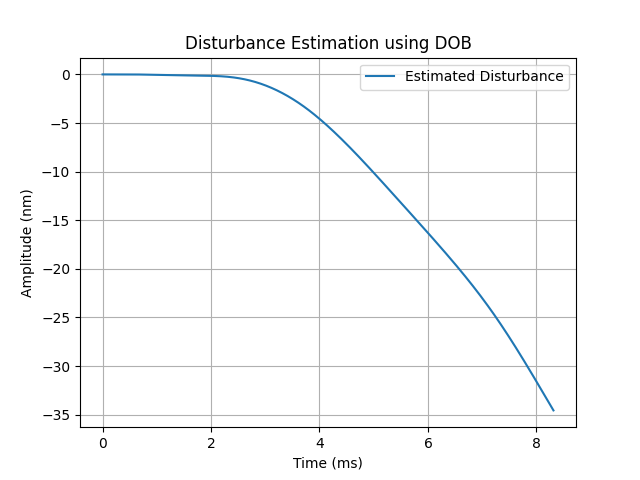
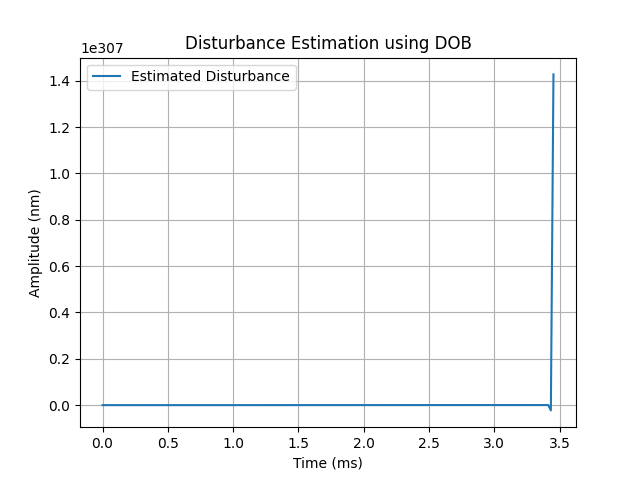
update

diff --git a/DOB_of_VCM.py b/DOB_of_VCM.py
@@ -85,7 +85,6 @@ print("Ts*420*1e3:", Ts*420*1e3)
 
 print("Discrete-time Plant:", Sys_Pd_vcm)
 P_nom = Sys_Pd_vcm
-cutoff_freq = 5
 w = 2 * np.pi * cutoff_freq
 low_pass_filter = signal.TransferFunction([w], [1, w])
 low_pass_filter_disc = signal.cont2discrete(([w], [1, w]), Ts, method='zoh')
@@ -98,9 +97,42 @@ den_disc = low_pass_filter_disc[1].flatten()
 # Create a control.TransferFunction for the discrete-time system
 low_pass_filter_tf = co.TransferFunction(num_disc, den_disc, Ts)
 print("Discrete-time Low-pass Filter for DOB:", low_pass_filter_tf)
+
+
+#P_nom_tf = co.ss2tf(P_nom)
+
+# Access the numerator and denominator from the transfer function
+#numerator = P_nom_tf.num[0][0]  # Extract the first (and usually only) element
+#denominator = P_nom_tf.den[0][0]
+#P_nom_inv = co.TransferFunction(denominator, numerator, Ts)  # 求名义模型的逆
+#print("Inverse of Nominal Model:", P_nom_inv)
+
+
+def get_regularized_inverse(P_nom, cutoff_freq):
+    # Convert the nominal plant to transfer function if it's not already
+    P_nom_tf = co.ss2tf(P_nom)
+
+    # Extract numerator and denominator
+    numerator = P_nom_tf.num[0][0]
+    denominator = P_nom_tf.den[0][0]
+
+    # Inverse of P_nom is simply flipping num and den
+    P_nom_inv = co.TransferFunction(denominator, numerator, Ts)
+
+    # Create low-pass filter to stabilize the inverse
+    w = 2 * np.pi * cutoff_freq
+    low_pass_filter = co.TransferFunction([w], [1, w], Ts)
+
+    # Multiply the inverse by the low-pass filter to regularize it
+    P_nom_inv_regularized = P_nom_inv * low_pass_filter
+
+    return P_nom_inv_regularized
+
+
+
 # Disturbance observer design
 
-def disturbance_observer(u, y, P_nom, low_pass_filter_tf):
+def disturbance_observer(u, y, P_nom, P_nom_inv, low_pass_filter_tf):
     # Estimating disturbance
     # Predict output based on nominal model
     y_nom = co.forced_response(P_nom, U=u, X0=0)[1]
@@ -108,8 +140,15 @@ def disturbance_observer(u, y, P_nom, low_pass_filter_tf):
     # Error between real and predicted output
     error = y - y_nom
     #print("error=",error)
+
+    error_decoupled = co.forced_response(P_nom_inv, U=error, X0=0)[1]
+
+    if np.any(np.isnan(error_decoupled)) or np.any(np.isinf(error_decoupled)):
+        print("Warning: NaN or Inf detected in error_decoupled. Applying filtering.")
+        error_decoupled = np.nan_to_num(error_decoupled) 
+
     # Estimate disturbance using low-pass filter
-    disturbance_estimated = co.forced_response(low_pass_filter_tf, U=error, X0=0)[1]
+    disturbance_estimated = co.forced_response(low_pass_filter_tf, U=error_decoupled, X0=0)[1]
     
     return disturbance_estimated
 
@@ -157,10 +196,11 @@ plt.title('Step response of VCM and VCM with disturbance')
 plt.show()
 
 
-
+P_nom_inv_regularized = get_regularized_inverse(P_nom, 5)
+print("P_nom_inv_regularized:", P_nom_inv_regularized)
 #print("y=",y)
 # Apply disturbance observer
-disturbance_estimated = disturbance_observer(u, y, Sys_Pd_vcm, low_pass_filter_tf)
+disturbance_estimated = disturbance_observer(u, y, Sys_Pd_vcm, P_nom_inv_regularized, low_pass_filter_tf)
 
 # Plot the results
 plt.figure()
